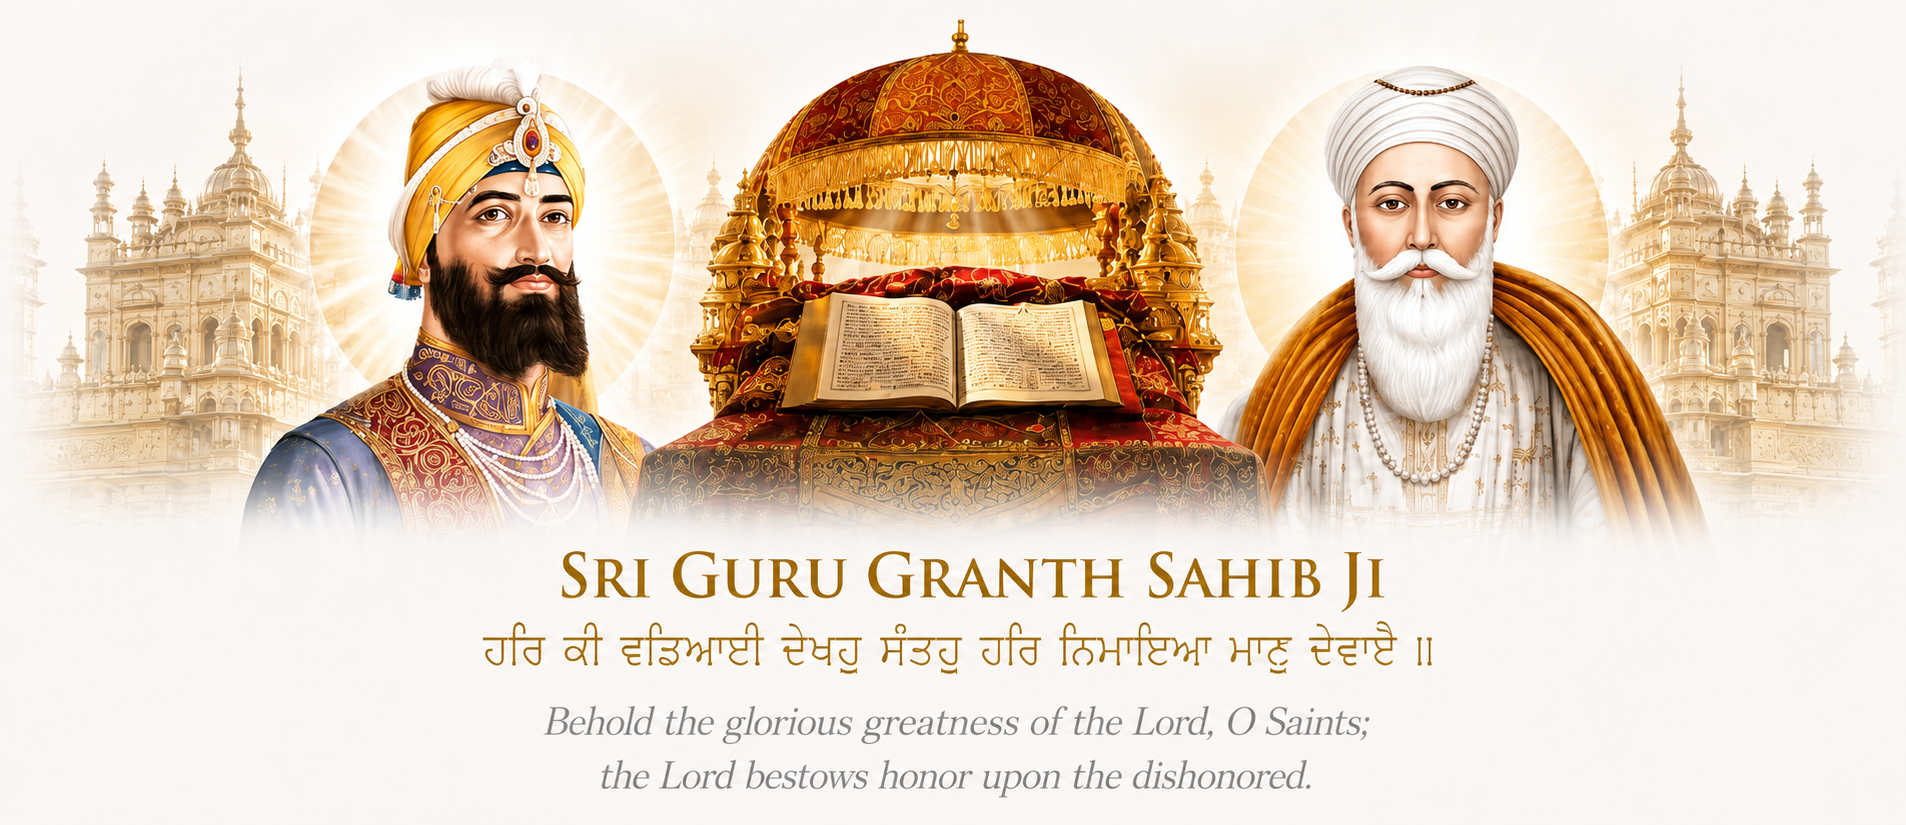
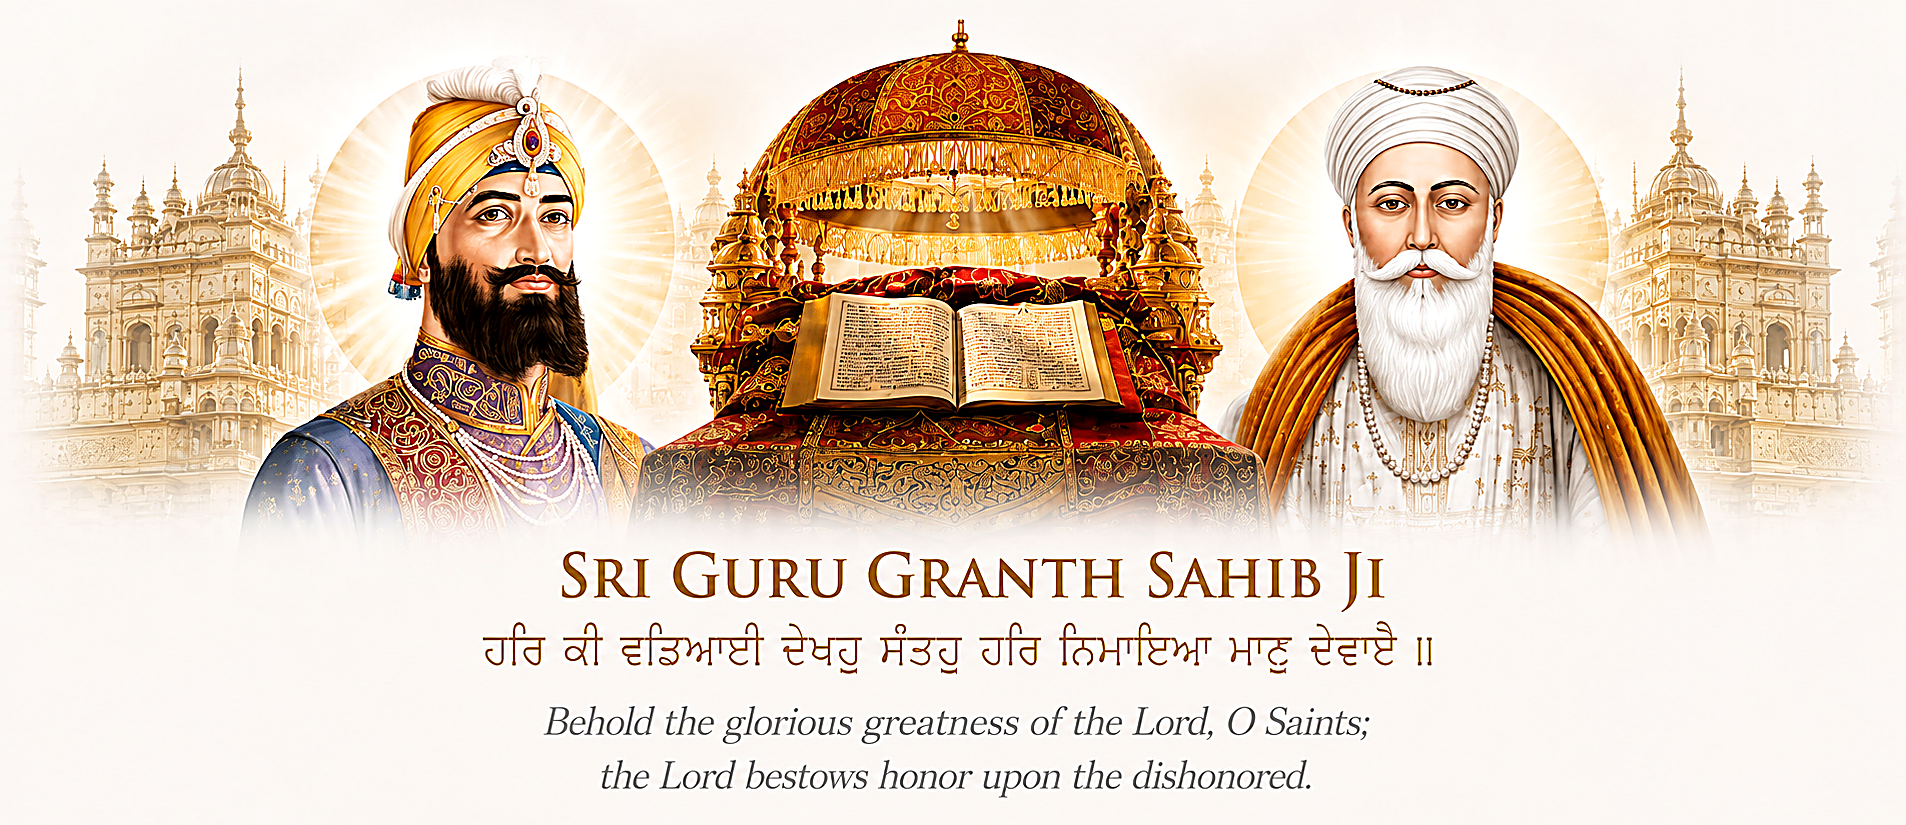
feat: ultra-high-definition hero artwork enhancement with unsharp mask and pixel-perfect native rendering, v10.55.0

diff --git a/frontend/sw.js b/frontend/sw.js
@@ -12,7 +12,7 @@
  * ═══════════════════════════════════════════════════════════════════════════════
  */
 
-const CACHE_VERSION = 'anhad-v10.54.0'; // v10.50.0: Perfected 16px floating gap between mini-player and bottom tab bar, whisper-soft pastel white cushion clay cards, and instant pre-cached navigation.
+const CACHE_VERSION = 'anhad-v10.55.0'; // v10.50.0: Perfected 16px floating gap between mini-player and bottom tab bar, whisper-soft pastel white cushion clay cards, and instant pre-cached navigation.
 // v10.29.0: Root-caused why fixes kept looking reverted on both localhost AND the deployed site despite correct source: .js/.css requests (rule 4 below) used cacheFirst(), which NEVER revalidates a hit — once any browser fetched e.g. nav-glass.css once, it kept serving that exact response forever regardless of CACHE_VERSION bumps, until the whole detect-new-SW/install/activate/reload chain happened to complete for that specific client. .html already used staleWhileRevalidate for exactly this reason (see the v10.13-v10.22 history below) but .js/.css never did. Moved .js/.css to staleWhileRevalidate too (new rule 3c) — verified live by injecting a fake stale response into an active client's cache and confirming the SECOND fetch (not a reload, not a cache clear, ~1s later) automatically served the real current file. Also: de-clobbered window.__anhadPageInit — trendora-app.js and homepage-data.js registered the identical 4 keys for Home and the second one to load silently overwrote the first, so only one of the two intended repopulation paths ever actually ran; now both compose, with the double-render debounce moved inside refreshHomeForSpa itself so having two live trigger paths again can't reintroduce the flash. Shell script loads that fail now retry once and log clearly instead of onerror=resolve silently treating a failed fetch as success forever. Added missing cache-busting query params to smooth-navigation.js/homepage-data.js. Live-measured the reported Home bottom gap on a guaranteed-fresh load: padding-bottom computes to exactly 110px, on-screen gap measures 109.67px — matches source exactly, confirming the gap itself was never a code bug, only ever a symptom of the same stale-cache issue this version fixes at the root.
 // v10.28.0: Decreased excessive bottom padding-bottom from 160px to 110px in nav-glass.css, and upgraded the Nitnem, Sehaj Paath, and Hukamnama practice cards with premium 3D soft claymorphism (ambient soft colored drop shadows + inset light reflection and shadow highlights) in both Light & Dark modes.
 // v10.26.0: Found the REAL remaining cause of the Home/Favorites "two-time flash" the user kept reporting even after v10.23/v10.24 — a CSS entrance animation (.page-enter, anhad-core.css), applied by JS via smooth-navigation.js's unconditional post-swap AnhadCore.init() -> initTransition() call, on an #app container that was already fully painted and visible. Adding a class that newly matches an `animation` rule restarts it regardless of how it's added — so this genuinely replayed the 0.48s "fade up from below" entrance on top of content the user was already looking at, on every single arrival at Home/Favorites. Insights never showed this because its own swapped content (#mainContent) already ships `page-enter` baked into its static HTML, so the later JS class-add is a true no-op there (class already present). Fix: added `page-enter` to Home's and Favorites' own #app markup, matching Insights' pattern exactly, instead of touching the JS trigger at all — verified via CDP by sampling #app's actual computed opacity every 25ms across 5 rapid Home<->Favorites round trips (the exact "gets worse the more I test" scenario reported): 172 samples, zero re-triggers, zero errors. Also fixed the Learning page's Daily Gursikhi Quiz re-prompting the same already-answered question on every revisit — it had no persistence at all; now stores {date, selectedIdx} in localStorage (en-CA date, matching the app's existing per-day convention) and restores the answered state instead of a fresh clickable question until the next calendar day.

diff --git a/frontend/index.html b/frontend/index.html
@@ -3066,38 +3066,40 @@
 
     /* 4. Sacred Devotional Hero Banner (Light & Dynamic Modes) */
     .greeting {
-      margin-top: -10px !important;
-      margin-bottom: 20px !important;
+      margin-top: -6px !important;
+      margin-bottom: 16px !important;
       padding: 0 !important;
       text-align: center !important;
       position: relative !important;
-      width: 100vw !important;
-      max-width: 100vw !important;
-      margin-left: calc(-50vw + 50%) !important;
-      margin-right: calc(-50vw + 50%) !important;
-      overflow: hidden !important;
+      width: 100% !important;
+      max-width: 100% !important;
+      overflow: visible !important;
     }
     .greeting__hero-banner {
-      position: relative;
-      width: 100%;
-      max-width: 1200px;
-      margin: 0 auto;
-      display: flex;
-      justify-content: center;
-      align-items: center;
-      overflow: visible;
-      transform: scale(1.12);
-      mask-image: radial-gradient(ellipse 98% 95% at 50% 50%, #000000 90%, rgba(0,0,0,0.85) 96%, transparent 100%);
-      -webkit-mask-image: radial-gradient(ellipse 98% 95% at 50% 50%, #000000 90%, rgba(0,0,0,0.85) 96%, transparent 100%);
+      position: relative !important;
+      width: 100% !important;
+      max-width: 600px !important;
+      margin: 0 auto !important;
+      display: flex !important;
+      justify-content: center !important;
+      align-items: center !important;
+      overflow: visible !important;
+      transform: none !important;
+      mask-image: none !important;
+      -webkit-mask-image: none !important;
+      padding: 0 4px !important;
+      box-sizing: border-box !important;
     }
     .greeting__hero-artwork {
-      width: 100%;
-      height: auto;
-      aspect-ratio: 1906 / 825;
-      object-fit: contain;
-      display: block;
-      transition: opacity 0.35s ease;
-      image-rendering: -webkit-optimize-contrast;
+      width: 100% !important;
+      height: auto !important;
+      aspect-ratio: 1906 / 825 !important;
+      object-fit: contain !important;
+      display: block !important;
+      transition: opacity 0.35s ease !important;
+      image-rendering: -webkit-optimize-contrast !important;
+      image-rendering: high-quality !important;
+      filter: drop-shadow(0 4px 16px rgba(0, 0, 0, 0.04)) !important;
     }
     
     .greeting__dark-carousel-container {
